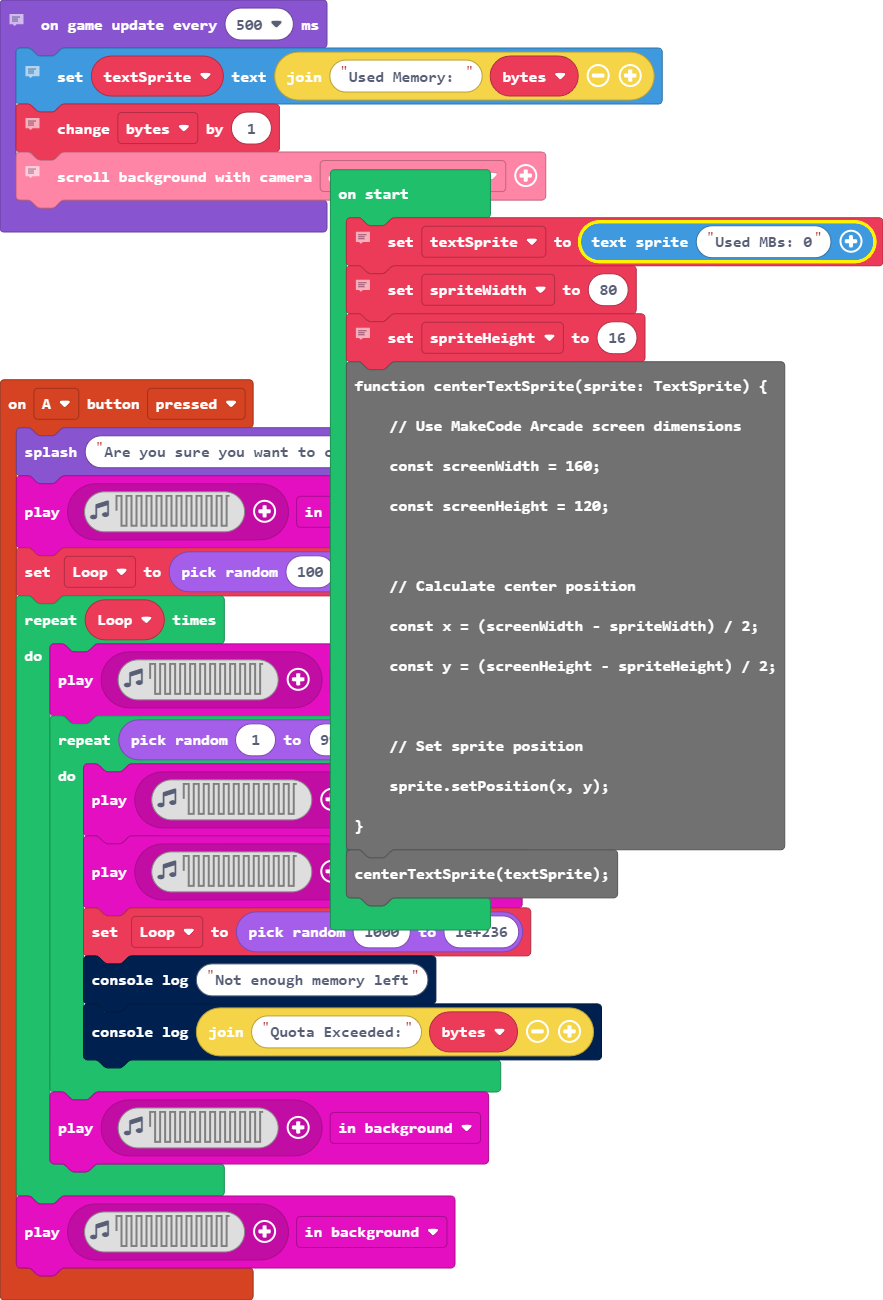
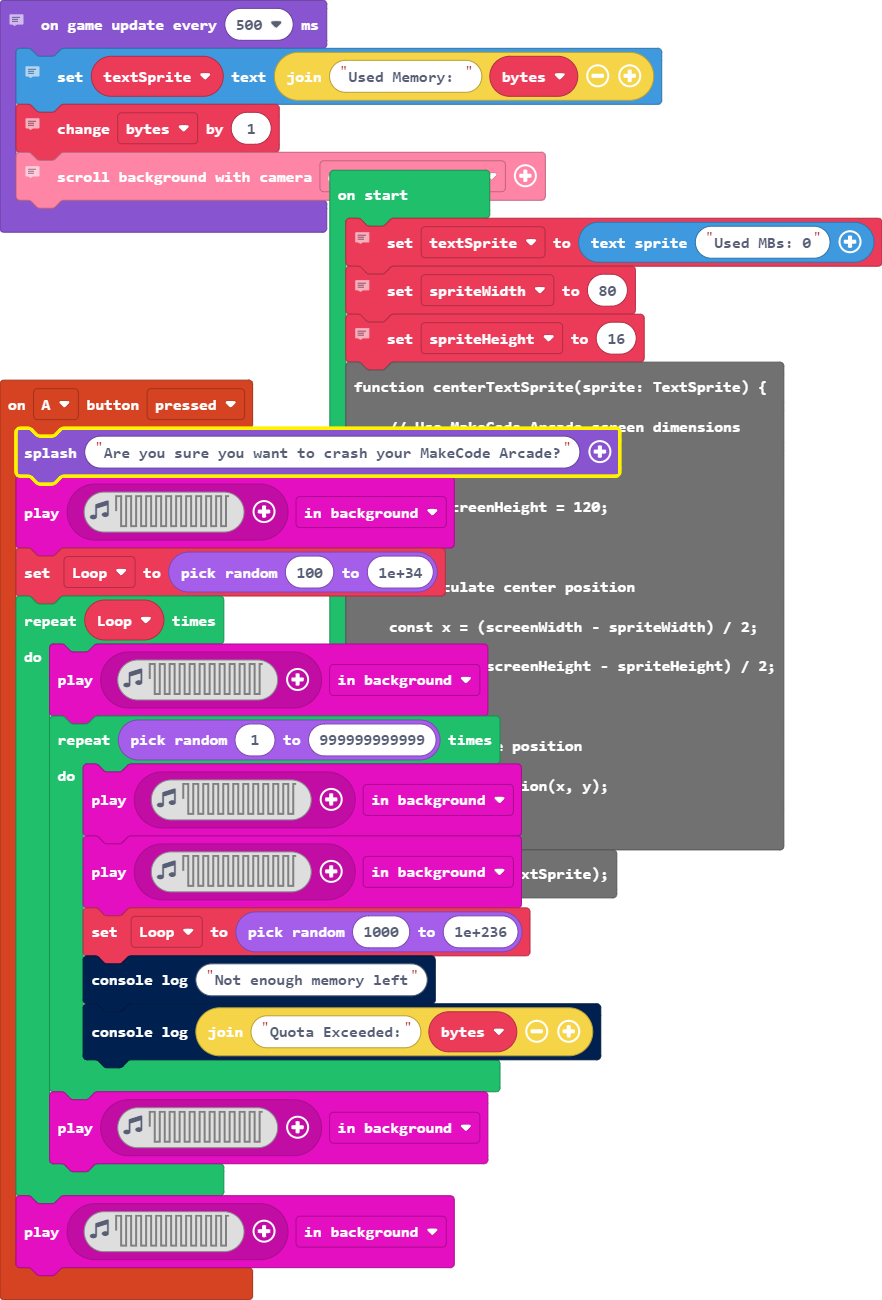
Optimizations.

diff --git a/main.ts b/main.ts
@@ -2,11 +2,13 @@ enum RadioMessage {
     message1 = 49434
 }
 controller.A.onEvent(ControllerButtonEvent.Pressed, function () {
-    game.splash("Are you sure you want to crash your MakeCode Arcade XL?")
+    game.splash("Are you sure you want to crash your MakeCode Arcade?")
+    music.play(music.createSoundEffect(WaveShape.Square, 5000, 5000, 255, 255, 1000, SoundExpressionEffect.None, InterpolationCurve.Curve), music.PlaybackMode.InBackground)
     Loop = randint(100, 1e+34)
     for (let index = 0; index < Loop; index++) {
         music.play(music.createSoundEffect(WaveShape.Square, 5000, 5000, 255, 255, 1000, SoundExpressionEffect.None, InterpolationCurve.Curve), music.PlaybackMode.InBackground)
         for (let index = 0; index < randint(1, 999999999999); index++) {
+            music.play(music.createSoundEffect(WaveShape.Square, 5000, 5000, 255, 255, 1000, SoundExpressionEffect.None, InterpolationCurve.Curve), music.PlaybackMode.InBackground)
             music.play(music.createSoundEffect(WaveShape.Square, 5000, 5000, 255, 255, 1000, SoundExpressionEffect.None, InterpolationCurve.Curve), music.PlaybackMode.InBackground)
             Loop = randint(1000, 1e+236)
             console.log("Not enough memory left")
